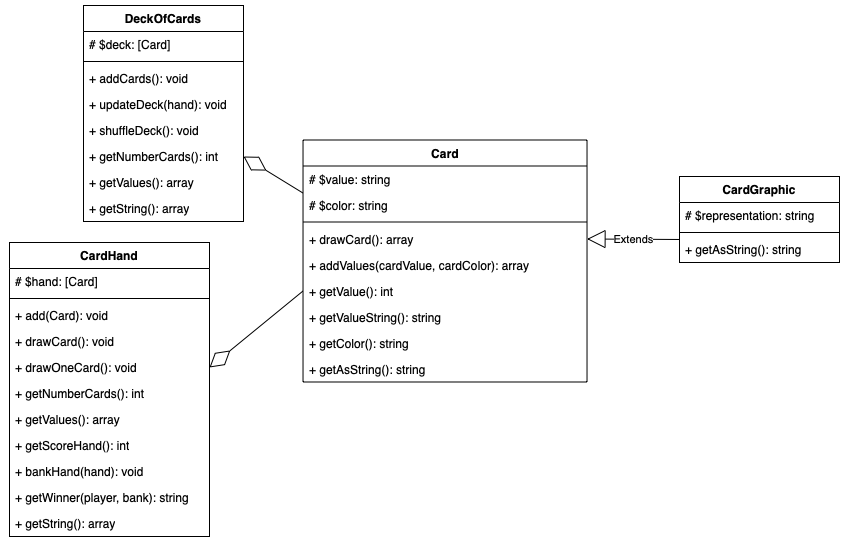
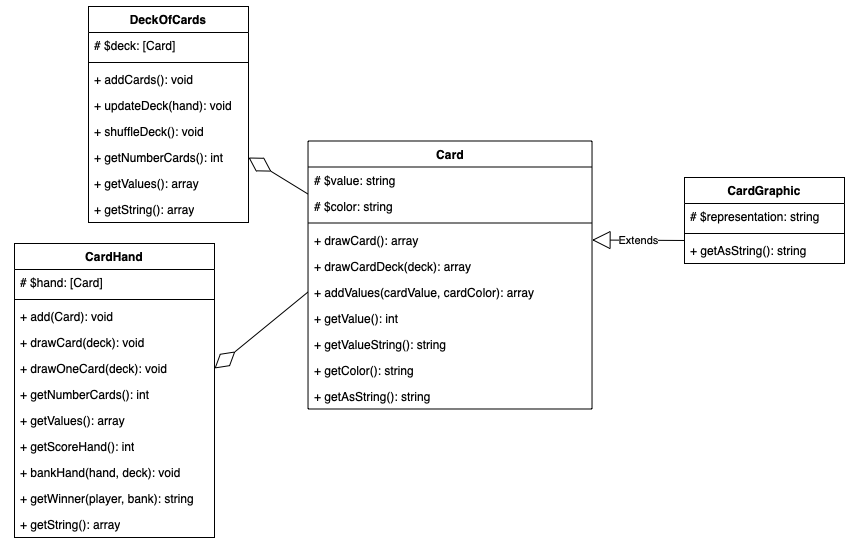
Final commit

diff --git a/src/Controller/LuckyControllerTwig.php b/src/Controller/LuckyControllerTwig.php
@@ -53,6 +53,7 @@ class LuckyControllerTwig extends AbstractController
         $fullDeck->addCards();
 
         $session->set("current_deck", $fullDeck);
+
         return $this->render('card.html.twig');
     }
 
@@ -63,7 +64,6 @@ class LuckyControllerTwig extends AbstractController
     ): Response {
         $numCards = $request->request->get('num_cards');
         $session->set("drawn_cards", $numCards);
-        $session->set("total_cards", 52);
 
         $data = [
             "num" => $numCards,
@@ -104,18 +104,22 @@ class LuckyControllerTwig extends AbstractController
     public function draw(
         SessionInterface $session
     ): Response {
-        $card = new Card();
-        //$card = new CardGraphic();
+        $fullDeck = $session->get("current_deck");
 
-        $num = 1;
-        $amountOfCards = $session->get("total_cards");
-        $session->set("total_cards", ($amountOfCards - $num));
+        $hand = new CardHand();
+        for ($i = 1; $i <= 1; $i++) {
+            $hand->add(new Card());
+        }
+
+        $hand->drawCard($fullDeck->getString());
+
+        $fullDeck->updateDeck($fullDeck->getString(), $hand->getString());
+        $session->set("current_deck", ($fullDeck));
 
         $data = [
-            'num_cards' => $num,
-            'num_cards_left' => $session->get("total_cards"),
-            'card_array' => $card->drawCard(),
-            'drawn_card' => $card->getAsString(),
+            'num_cards' => $hand->getNumberCards(),
+            'num_cards_left' => $fullDeck->getNumberCards(),
+            'drawn_card' => $hand->getString(),
         ];
 
         return $this->render('card/deck/draw.html.twig', $data);
@@ -126,7 +130,9 @@ class LuckyControllerTwig extends AbstractController
         int $num,
         SessionInterface $session
     ): Response {
-        if ($num > 52) {
+        $fullDeck = $session->get("current_deck");
+
+        if ($fullDeck->getNumberCards() < $num) {
             var_dump("No more cards in the pile");
         }
 
@@ -135,14 +141,14 @@ class LuckyControllerTwig extends AbstractController
             $hand->add(new Card());
         }
 
-        $hand->drawCard();
+        $hand->drawCard($fullDeck->getString());
 
-        $amountOfCards = $session->get("total_cards");
-        $session->set("total_cards", ($amountOfCards - $num));
+        $fullDeck->updateDeck($fullDeck->getString(), $hand->getString());
+        $session->set("current_deck", ($fullDeck));
 
         $data = [
             "num_cards" => $hand->getNumberCards(),
-            'num_cards_left' => $session->get("total_cards"),
+            'num_cards_left' => $fullDeck->getNumberCards(),
             "drawn_cards" => $hand->getString(),
         ];
 

diff --git a/src/Controller/LuckyControllerJson.php b/src/Controller/LuckyControllerJson.php
@@ -29,7 +29,6 @@ class LuckyControllerJson extends AbstractController
 
         $numCards = $request->request->get('num_cards');
         $session->set("drawn_cards", $numCards);
-        $session->set("total_cards", 52);
 
         $data = [
             "num" => $numCards,
@@ -111,17 +110,22 @@ class LuckyControllerJson extends AbstractController
     public function drawACard(
         SessionInterface $session
     ): Response {
-        $card = new Card();
-        $card->drawCard();
+        $fullDeck = $session->get("current_deck");
 
-        $num = 1;
-        $amountOfCards = $session->get("total_cards");
-        $session->set("total_cards", ($amountOfCards - $num));
+        $hand = new CardHand();
+        for ($i = 1; $i <= 1; $i++) {
+            $hand->add(new Card());
+        }
+
+        $hand->drawCard($fullDeck->getString());
+
+        $fullDeck->updateDeck($fullDeck->getString(), $hand->getString());
+        $session->set("current_deck", ($fullDeck));
 
         $data = [
-            'num_cards' => $num,
-            'amount_cards_left' => $session->get("total_cards"),
-            'drawn_card' => $card->getAsString(),
+            'num_cards' => $hand->getNumberCards(),
+            'amount_cards_left' => $fullDeck->getNumberCards(),
+            'drawn_card' => $hand->getString(),
         ];
 
         $response = new JsonResponse($data);
@@ -136,9 +140,7 @@ class LuckyControllerJson extends AbstractController
         int $num,
         SessionInterface $session
     ): Response {
-
-        $amountOfCards = $session->get("total_cards");
-        $session->set("total_cards", ($amountOfCards - $num));
+        $fullDeck = $session->get("current_deck");
 
         if ($num > 52) {
             var_dump("No more cards in the pile");
@@ -149,11 +151,14 @@ class LuckyControllerJson extends AbstractController
             $hand->add(new Card());
         }
 
-        $hand->drawCard();
+        $hand->drawCard($fullDeck->getString());
+
+        $fullDeck->updateDeck($fullDeck->getString(), $hand->getString());
+        $session->set("current_deck", ($fullDeck));
 
         $data = [
-            "num_cards" => $num,
-            'amount_cards_left' => $session->get("total_cards"),
+            "num_cards" => $hand->getNumberCards(),
+            'num_cards_left' => $fullDeck->getNumberCards(),
             "drawn_cards" => $hand->getString(),
         ];
 

diff --git a/src/Controller/LuckyControllerGame.php b/src/Controller/LuckyControllerGame.php
@@ -19,12 +19,12 @@ class LuckyControllerGame extends AbstractController
     public function game(
         SessionInterface $session
     ): Response {
-        $hand = new CardHand();
-        $hand->add(new Card());
-        $hand->drawOneCard();
-        $session->set("hand", $hand);
         $deck = new DeckOfCards();
         $deck->addCards();
+        $hand = new CardHand();
+        $hand->add(new Card());
+        $hand->drawOneCard($deck->getString());
+        $session->set("hand", $hand);
         $session->set("deck", $deck);
         $session->set("points", 0);
 
@@ -40,7 +40,7 @@ class LuckyControllerGame extends AbstractController
         $session->set("points", $hand->getScoreHand());
         $score = $session->get("points");
         $currentDeck = $session->get("deck");
-        $currentDeck->updateDeck($hand);
+        $currentDeck->updateDeck($currentDeck->getString(), $hand->getString());
         $session->set("deck", $currentDeck);
 
         $data = [
@@ -56,11 +56,12 @@ class LuckyControllerGame extends AbstractController
     public function gameDraw(
         SessionInterface $session
     ): Response {
+        $deck = $session->get("deck");
 
         $hand = $session->get("hand");
 
         $hand->add(new Card());
-        $hand->drawOneCard();
+        $hand->drawOneCard($deck->getString());
 
         $session->set("hand", $hand);
 
@@ -78,7 +79,7 @@ class LuckyControllerGame extends AbstractController
 
         $hand = new CardHand();
 
-        $hand->bankHand($hand);
+        $hand->bankHand($hand, $deck);
         $score = $hand->getScoreHand();
 
         $winner = $hand->getWinner($player, $hand);

diff --git a/src/Card/DeckOfCards.php b/src/Card/DeckOfCards.php
@@ -21,14 +21,32 @@ class DeckOfCards
         }
     }
 
-    public function updateDeck($hand): void
+    public function updateDeck($deck, $hand): void
     {
-        $lenght = $hand->getNumberCards();
-        $lastCard = end($hand)[$lenght-1];
-        foreach ($this->deck as $card) {
-            if ($card->getValueString() === $lastCard->getValueString() and $card->getColor() === $lastCard->getColor()) {
-                $key = array_search($card, $this->deck);
-                unset($this->deck[$key]);
+        foreach ($hand as $card) {
+            if (in_array($card, $deck)) {
+                $key = array_search($card, $deck);
+                unset($deck[$key]);
+            }
+        }
+        $this->deck = [];
+        foreach ($deck as $cardValue) {
+            if (str_contains($cardValue, "♣")) {
+                $card = new Card();
+                $this->deck[] = $card;
+                $card->addValues($cardValue[0], "♣");
+            } elseif (str_contains($cardValue, "♠")) {
+                $card = new Card();
+                $this->deck[] = $card;
+                $card->addValues($cardValue[0], "♠");
+            } elseif (str_contains($cardValue, "♥")) {
+                $card = new Card();
+                $this->deck[] = $card;
+                $card->addValues($cardValue[0], "♥");
+            } elseif (str_contains($cardValue, "♦")) {
+                $card = new Card();
+                $this->deck[] = $card;
+                $card->addValues($cardValue[0], "♦");
             }
         }
     }

diff --git a/src/Card/CardHand.php b/src/Card/CardHand.php
@@ -13,16 +13,16 @@ class CardHand
         $this->hand[] = $card;
     }
 
-    public function drawCard(): void
+    public function drawCard($deck): void
     {
         foreach ($this->hand as $card) {
-            $card->drawCard();
+            $card->drawCardDeck($deck);
         }
     }
 
-    public function drawOneCard(): void
+    public function drawOneCard($deck): void
     {
-        end($this->hand)->drawCard();
+        end($this->hand)->drawCardDeck($deck);
     }
 
     public function getNumberCards(): int
@@ -58,11 +58,11 @@ class CardHand
         return $score;
     }
 
-    public function bankHand($hand): void
+    public function bankHand($hand, $deck): void
     {
         while ($hand->getScoreHand() < 15) {
             $hand->add(new Card());
-            $hand->drawOneCard();
+            $hand->drawOneCard($deck->getString());
         }
     }
 

diff --git a/src/Card/Card.php b/src/Card/Card.php
@@ -41,6 +41,24 @@ class Card
         return array($this->value, $this->color);
     }
 
+    public function drawCardDeck($deck): array
+    {
+        $key = array_rand($deck);
+        $cardValue = $deck[$key];
+        $this->color = "♦";
+        if (str_contains($cardValue, "♣")) {
+            $this->color = "♣";
+        } elseif (str_contains($cardValue, "♠")) {
+            $this->color = "♠";
+        } elseif (str_contains($cardValue, "♥")) {
+            $this->color = "♥";
+        }
+
+        $this->value = $cardValue[0];
+
+        return array($this->value, $this->color);
+    }
+
     public function addValues($cardValue, $cardColor): array
     {
         $this->value = $cardValue;
